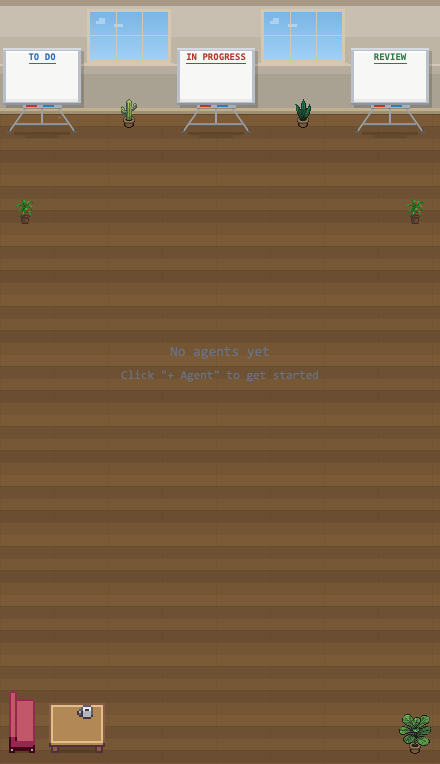
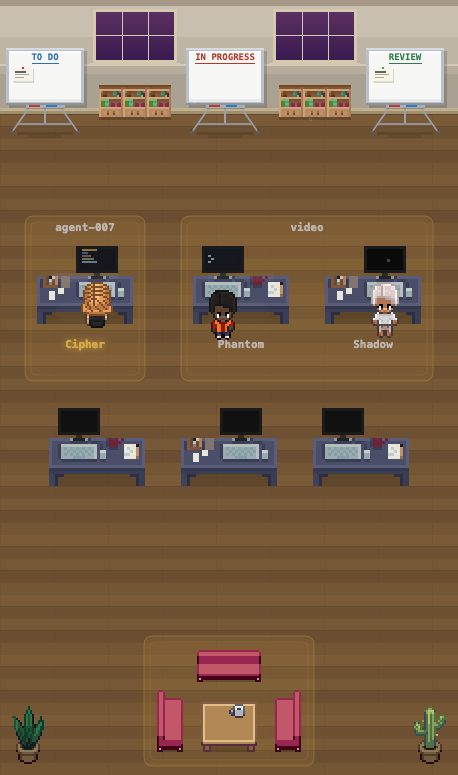
docs: describe the bookshelves, spare desks and chat area; credit the new sprites
Claude-Session: https://claude.ai/code/session_013RkGRg2BzxnvTeVqGaNLw4

diff --git a/README.md b/README.md
@@ -17,7 +17,7 @@ This project is inspired by [pixel-agents](https://github.com/pablodelucca/pixel
 
 ## Features
 
-- **Pixel office** -- Canvas-rendered workstations that show each agent's state at a glance (working, waiting, needs attention, idle, disconnected). Desks are grouped into per-repo pods, each on its own labeled rug, in a front-facing grid (up to four desks across, wrapping into rows with an aisle between); leftover floor space fills with ambient decor (a sofa-and-coffee-table corner, potted plants) that yields as the office gets crowded. Pixel-art characters (six sprite variants) face the screen when working, turn to face you when waiting, and stand up when idle. A newly spawned agent walks in from the entrance to its desk, a departing one walks out before its desk disappears, and when the job board dispatches a job a small paper flies from that job's whiteboard column to the new agent's desk (all motion respects `prefers-reduced-motion`). The three whiteboards mirror the job board live: one pinned paper per job in each column, with a "+N" note when more are queued than fit.
+- **Pixel office** -- Canvas-rendered workstations that show each agent's state at a glance (working, waiting, needs attention, idle, disconnected). Desks are grouped into per-repo pods, each on its own labeled rug, in a front-facing grid (up to four desks across, wrapping into rows with an aisle between); a sparse office shows a row of empty spare desks below the real one, and the bottom of the floor fills with ambient decor (a centred sofas-and-coffee-table chat area, a plant in each corner) that yields as the office gets crowded; low bookshelves run under the windows. Pixel-art characters (six sprite variants) face the screen when working, turn to face you when waiting, and stand up when idle. A newly spawned agent walks in from the entrance to its desk, a departing one walks out before its desk disappears, and when the job board dispatches a job a small paper flies from that job's whiteboard column to the new agent's desk (all motion respects `prefers-reduced-motion`). The three whiteboards mirror the job board live: one pinned paper per job in each column, with a "+N" note when more are queued than fit.
 - **Git worktree isolation** -- Each agent gets its own worktree and branch automatically. No merge conflicts between agents working on the same repo. Branches are named with cocktail names (`bill/vesper`, `bill/martini`, ...).
 - **Multi-repo support** -- Add any number of repos. Spawn agents on different repos and manage them all from one place.
 - **Live file explorer** -- Real-time file tree with git status indicators, inline diff viewer, and a changes/all toggle to filter what you see. Repo sections collapse from their header (click, or Enter/Space when focused); a collapsed header keeps the agent count and a dot for the most urgent agent state, so folded sections still show when something needs you.
@@ -185,8 +185,8 @@ lib/
 
 ## Acknowledgements
 
-- Character sprites and the ambient decor sprites (`furniture/cactus.png`, `plant_2.png`, `large_plant.png`, `sofa_side.png`, `coffee_table.png`, `coffee.png`) from [pixel-agents](https://github.com/pablodelucca/pixel-agents) (MIT, © Pablo De Lucca — license vendored at `public/assets/characters/LICENSE`), character bases by JIK-A-4's ["Metro City" free top-down character pack](https://jik-a-4.itch.io/metrocity-free-topdown-character-pack) (CC0)
-- Desk and `plant_big.png` sprites from the Free Furniture Office Equipment Set by Antea (CC-BY 4.0)
+- Character sprites and the ambient decor sprites (`furniture/cactus.png`, `plant_2.png`, `sofa_side.png`, `sofa_front.png`, `coffee_table.png`, `coffee.png`) from [pixel-agents](https://github.com/pablodelucca/pixel-agents) (MIT, © Pablo De Lucca — license vendored at `public/assets/characters/LICENSE`), character bases by JIK-A-4's ["Metro City" free top-down character pack](https://jik-a-4.itch.io/metrocity-free-topdown-character-pack) (CC0)
+- Desk and `bookshelf.png` sprites from the Free Furniture Office Equipment Set by Antea (CC-BY 4.0)
 
 ## Contributing
 

diff --git a/DESIGN.md b/DESIGN.md
@@ -259,22 +259,24 @@ lays out against a 0x0 room.
 - **Floor:** Warm wood planks, fixed base `#4a3525`
 - **Windows:** Two windows with day/night cycle based on local time
 - **Job boards:** Three freestanding whiteboards on A-frame stands (not wall-mounted), standing almost against the back wall, one in each wall section (either side of the windows and between them). Titled TO DO / IN PROGRESS / REVIEW after the columns of the `## Job Board` feature below, and kept in step with `JOB_STATES` by a test. Since v0.3.16.0 the pinned posts are live: each board pins one paper per job in its column (a fixed grid of pin slots, filled left to right then top to bottom), draws a "+N" corner chip for jobs beyond the slots, shows a clean board when its column is empty, and repaints on every `jobs-list` broadcast
-- **Plants:** One plant per gap between the job boards — a cactus between
-  TO DO and IN PROGRESS, a leafy plant between IN PROGRESS and REVIEW — each
-  centred between its two boards' centres (`computeWallPlants`), so neither
-  overlaps a board at any panel width; none when the panel is too narrow for
-  boards. Every plant is drawn at `PLANT_SCALE` (1x) so it reads as desk-side
-  decor, shorter than a board, not person-sized furniture — a deliberately
-  finer pixel grid than the 2x characters and lounge, since 1x is the only
-  integer scale that gets a 16×32 tile under board height. No plant sprite
-  appears more than twice in the room. `docs/office-decor.png` shows the empty
-  office's decor at the default 440px panel
-- **Ambient decor:** Since v0.3.18.0, leftover floor space fills from a fixed
-  candidate list — a break-room corner bottom-left (a side-view sofa facing a
-  coffee table with a coffee pot on it), a floor plant bottom-right, small potted plants in the top
-  corners. A candidate only draws when it clears every pod rug by a margin
+- **Bookshelves:** A low bookshelf run under each window — three short
+  Antea bookcase units tiled edge-to-edge at 2x, centred on the window and
+  narrower than it, feet tight against the wall with a contact shadow
+  (`computeBookshelfRuns`). Drawn before the boards so an easel overlaps a
+  shelf, never the reverse; none when the panel is too narrow for boards
+- **Spare desks:** While the office has a single row of real pods, a row of
+  up to three empty workstations (dark screens, no character, name or rug)
+  sits on the pod grid one row-pitch below it, so a sparse office reads as
+  unassigned seats. Only when the row clears the decor and the panel bottom
+  by the decor margin (`computeSpareDesks`); it vanishes as rows are added
+- **Ambient decor:** The bottom of the floor fills from a fixed candidate
+  list — a centred chat area on a label-less pod-style rug (side sofas left
+  and right of a coffee table with the coffee pot on it, the right one
+  mirrored to face it, and a front-facing sofa above), a leafy plant in the
+  bottom-left corner and a cactus bottom-right, all at the 2x character scale.
+  A candidate only draws when it clears every pod rug by a margin
   (`computeDecorPlacement`), so decor yields and disappears as desks crowd the
-  room
+  room. `docs/office-decor.png` shows a one-row office at a 458px panel
 - **Particles:** 5 ambient dust motes
 
 ## Job Board
